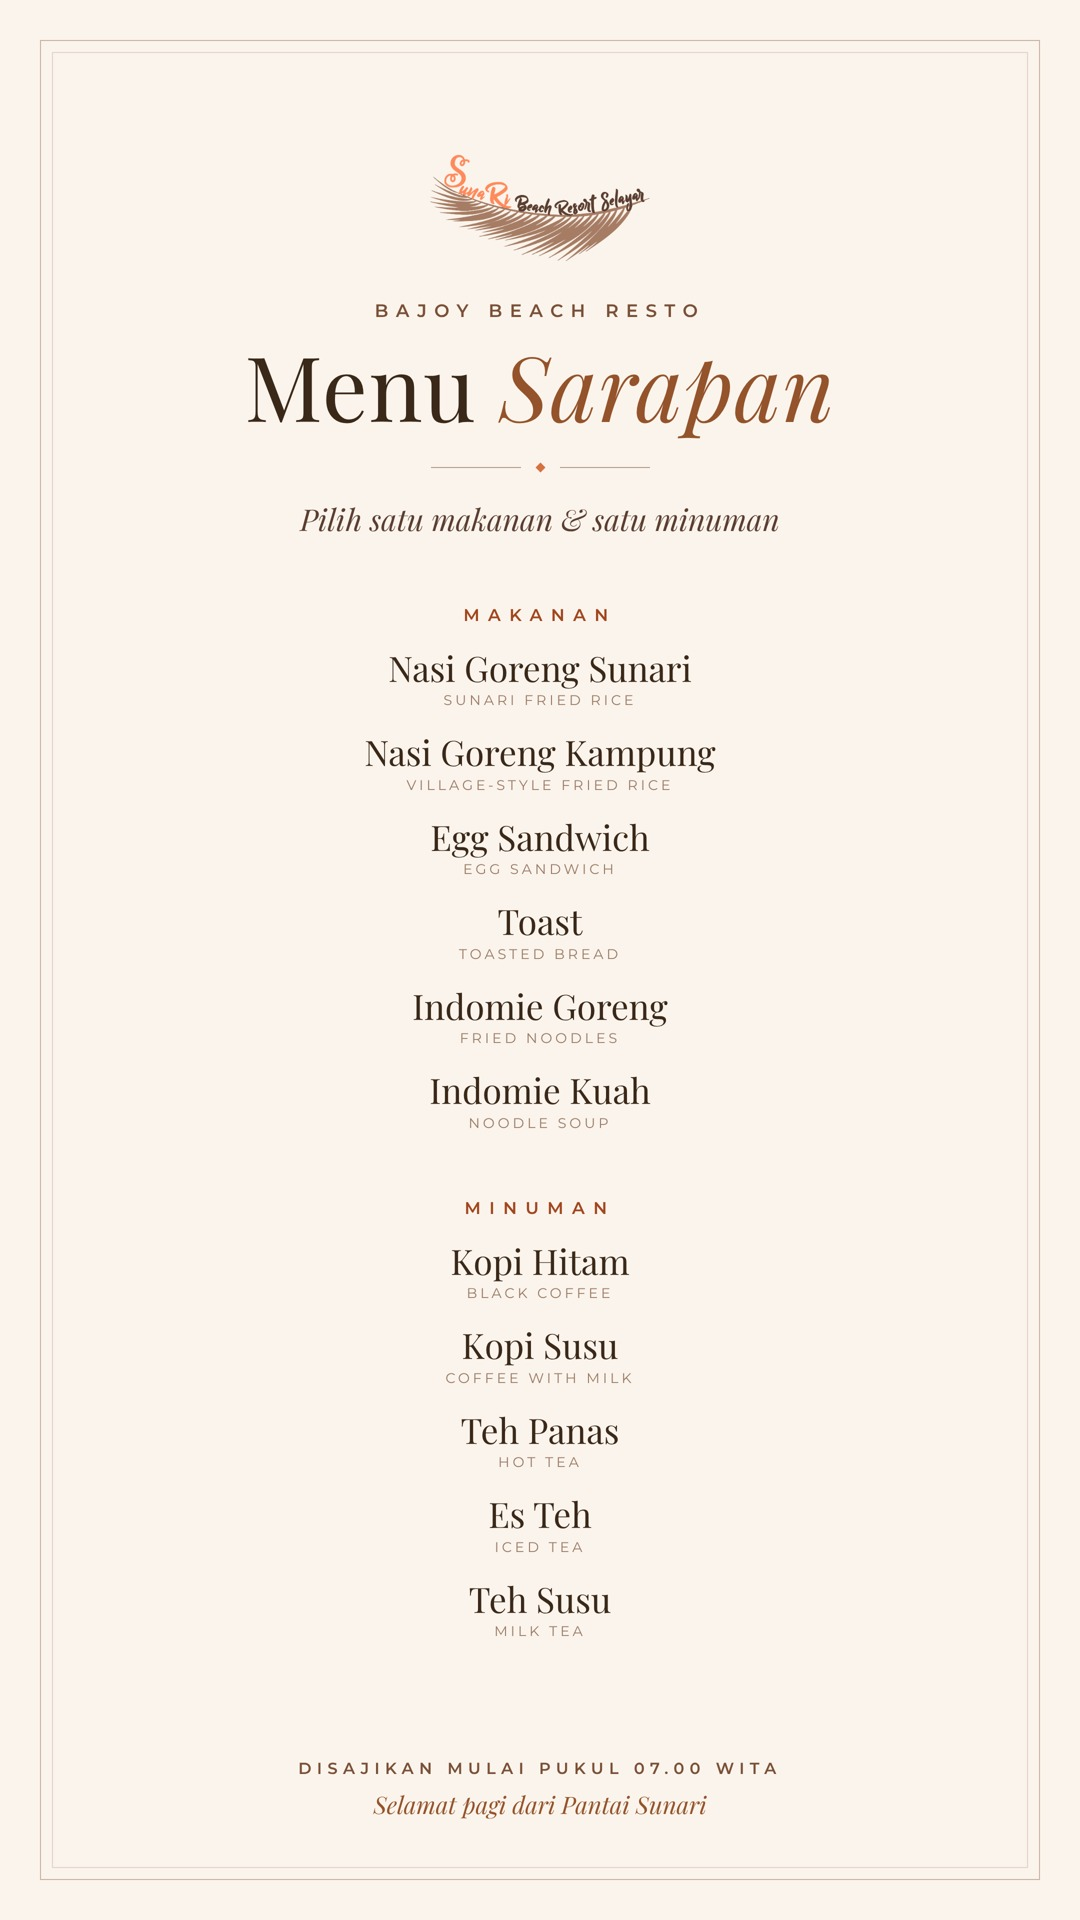
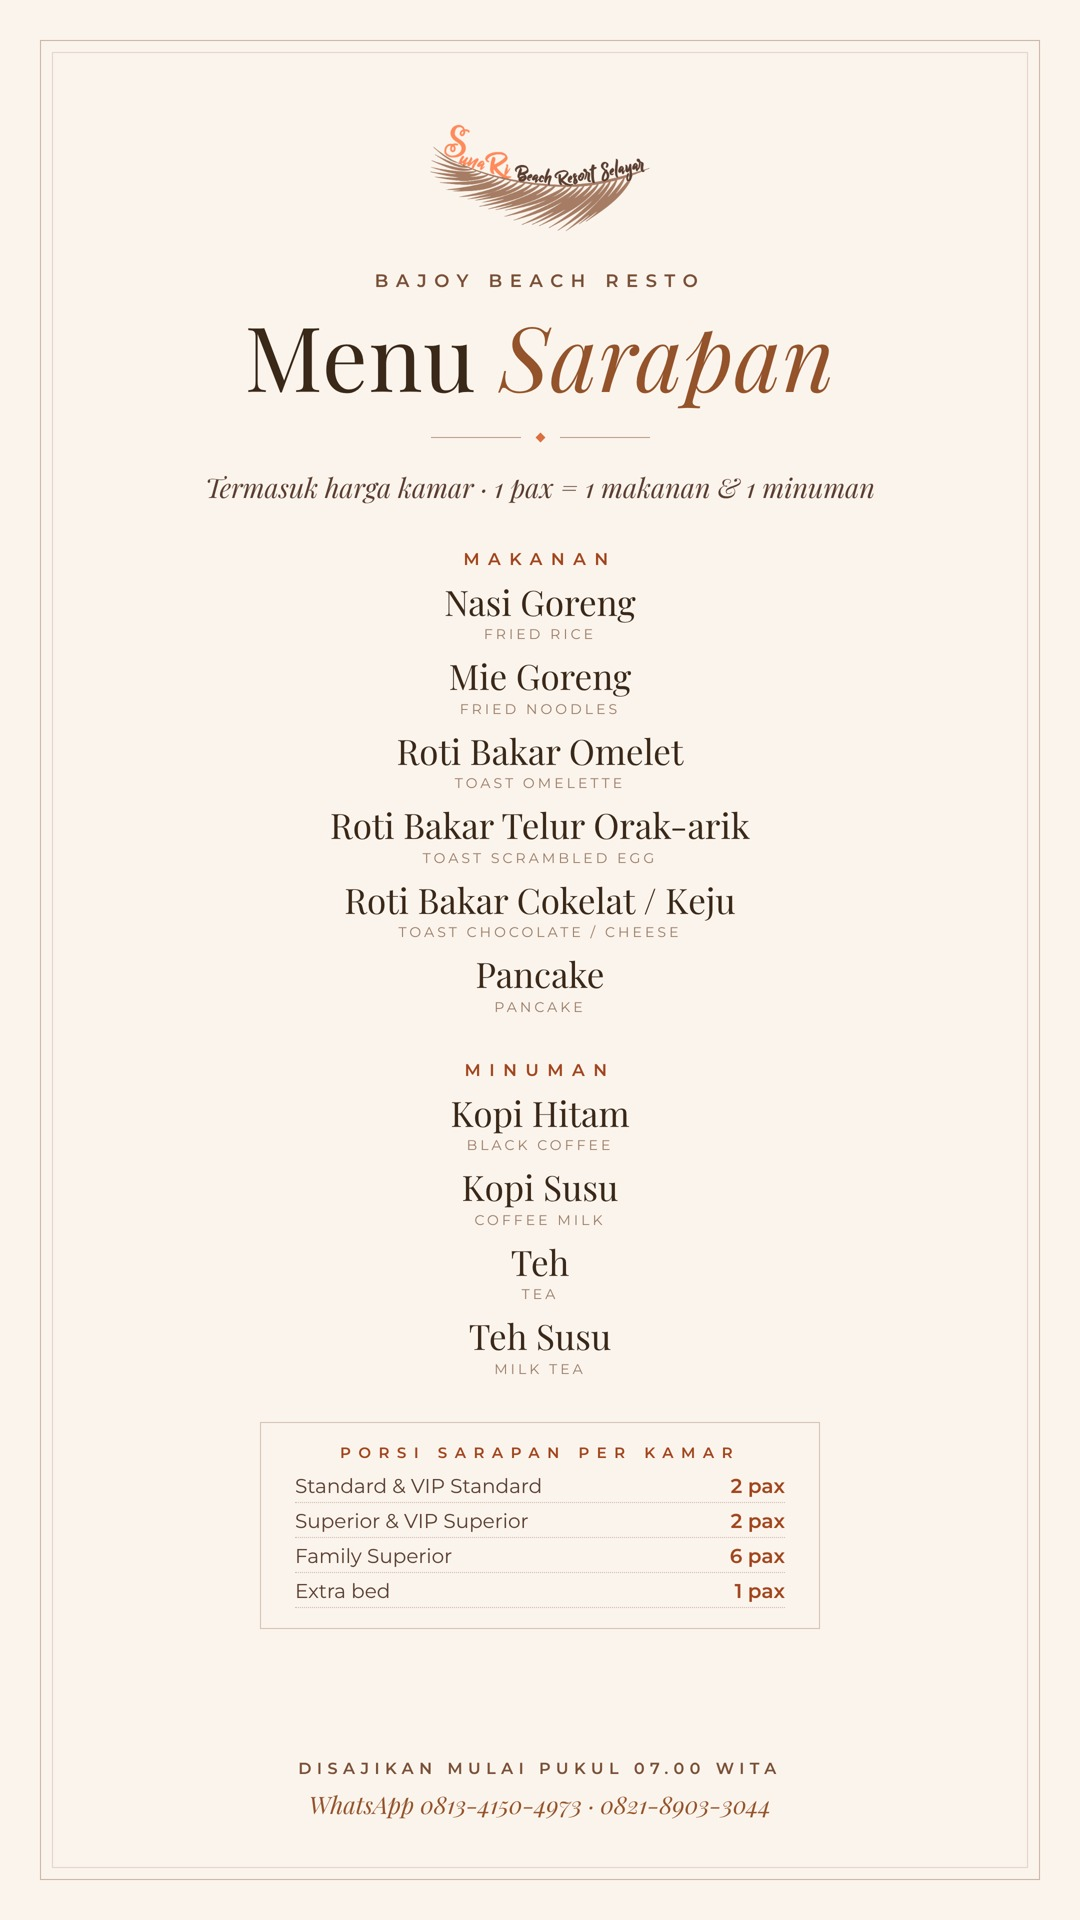
Menu sarapan sesuai menu resmi pemilik (6 makanan, 4 minuman, porsi per kamar); dicatat di MENU_BAJOY.md
Claude-Session: https://claude.ai/code/session_01KeLc5eBGUnchV5ne3wvwHX

diff --git a/resto/menu-sarapan/menu_sarapan.html b/resto/menu-sarapan/menu_sarapan.html
@@ -2,27 +2,31 @@
 *{margin:0;padding:0;box-sizing:border-box}body{background:#bbb;font-family:Montserrat,sans-serif;-webkit-font-smoothing:antialiased}
 .pg{position:relative;width:1080px;height:1920px;margin:20px auto;background:#FBF4EC;color:#3A2819;overflow:hidden}
 .f1{position:absolute;inset:40px;border:1.5px solid rgba(138,95,72,.45)}.f2{position:absolute;inset:52px;border:1px solid rgba(138,95,72,.22)}
-.in{position:absolute;left:120px;right:120px;top:150px;text-align:center}
+.in{position:absolute;left:120px;right:120px;top:120px;text-align:center}
 .lg{width:230px}
 .kick{font-weight:600;font-size:18px;letter-spacing:.42em;text-transform:uppercase;color:#7A5038;margin-top:30px}
 h1{font-family:'Playfair Display',serif;font-weight:400;font-size:90px;line-height:1;margin-top:18px;letter-spacing:.01em}
 h1 i{color:#94532B}
 .rule{display:flex;align-items:center;justify-content:center;gap:16px;margin:34px 0 0}
 .rule span{width:90px;height:1px;background:rgba(138,95,72,.6)}.rule b{width:7px;height:7px;transform:rotate(45deg);background:#D9703F}
-.how{font-family:'Playfair Display',serif;font-style:italic;font-size:30px;color:#5A3E31;margin-top:28px}
-.sec{margin-top:66px}
+.how{font-family:'Playfair Display',serif;font-style:italic;font-size:27px;color:#5A3E31;margin-top:28px}
+.sec{margin-top:44px}
 .grid{display:grid;grid-template-columns:1fr 1fr;column-gap:30px}
 .st{font-weight:600;font-size:17px;letter-spacing:.5em;text-transform:uppercase;color:#A2461F}
-.it{margin-top:24px}
+.it{margin-top:14px}
 .it .n{font-family:'Playfair Display',serif;font-size:35px;line-height:1.1}
 .it .e{font-size:14px;letter-spacing:.22em;text-transform:uppercase;color:#9A7B66;margin-top:4px}
+.porsi{margin:44px auto 0;width:560px;padding:20px 34px;border:1px solid rgba(138,95,72,.35)}
+.pg2{display:grid;grid-template-columns:1fr;gap:6px;margin-top:12px;font-size:20px;color:#5A3E31}
+.pg2 div{display:flex;justify-content:space-between;border-bottom:1px dotted rgba(138,95,72,.4);padding-bottom:4px}.pg2 b{color:#A2461F;font-weight:600}
 .ft{position:absolute;left:130px;right:130px;bottom:100px;text-align:center}
 .ft .t{font-weight:600;font-size:16px;letter-spacing:.34em;text-transform:uppercase;color:#7A5038}
 .ft .s{font-family:'Playfair Display',serif;font-style:italic;font-size:24px;color:#94532B;margin-top:10px}
 </style></head><body><div class="pg" id="menu-sarapan"><div class="f1"></div><div class="f2"></div>
 <div class="in"><img class="lg" src="../../assets/logo-sunari-color.png"><div class="kick">Bajoy Beach Resto</div>
 <h1>Menu <i>Sarapan</i></h1><div class="rule"><span></span><b></b><span></span></div>
-<div class="how">Pilih satu makanan &amp; satu minuman</div>
-<div class="sec"><div class="st">Makanan</div><div class="it"><div class="n">Nasi Goreng Sunari</div><div class="e">Sunari fried rice</div></div><div class="it"><div class="n">Nasi Goreng Kampung</div><div class="e">Village-style fried rice</div></div><div class="it"><div class="n">Egg Sandwich</div><div class="e">Egg sandwich</div></div><div class="it"><div class="n">Toast</div><div class="e">Toasted bread</div></div><div class="it"><div class="n">Indomie Goreng</div><div class="e">Fried noodles</div></div><div class="it"><div class="n">Indomie Kuah</div><div class="e">Noodle soup</div></div></div>
-<div class="sec"><div class="st">Minuman</div><div class="it"><div class="n">Kopi Hitam</div><div class="e">Black coffee</div></div><div class="it"><div class="n">Kopi Susu</div><div class="e">Coffee with milk</div></div><div class="it"><div class="n">Teh Panas</div><div class="e">Hot tea</div></div><div class="it"><div class="n">Es Teh</div><div class="e">Iced tea</div></div><div class="it"><div class="n">Teh Susu</div><div class="e">Milk tea</div></div></div></div>
-<div class="ft"><div class="t">Disajikan mulai pukul 07.00 WITA</div><div class="s">Selamat pagi dari Pantai Sunari</div></div></div></body></html>
+<div class="how">Termasuk harga kamar · 1 pax = 1 makanan &amp; 1 minuman</div>
+<div class="sec"><div class="st">Makanan</div><div class="it"><div class="n">Nasi Goreng</div><div class="e">Fried rice</div></div><div class="it"><div class="n">Mie Goreng</div><div class="e">Fried noodles</div></div><div class="it"><div class="n">Roti Bakar Omelet</div><div class="e">Toast omelette</div></div><div class="it"><div class="n">Roti Bakar Telur Orak-arik</div><div class="e">Toast scrambled egg</div></div><div class="it"><div class="n">Roti Bakar Cokelat / Keju</div><div class="e">Toast chocolate / cheese</div></div><div class="it"><div class="n">Pancake</div><div class="e">Pancake</div></div></div>
+<div class="sec"><div class="st">Minuman</div><div class="it"><div class="n">Kopi Hitam</div><div class="e">Black coffee</div></div><div class="it"><div class="n">Kopi Susu</div><div class="e">Coffee milk</div></div><div class="it"><div class="n">Teh</div><div class="e">Tea</div></div><div class="it"><div class="n">Teh Susu</div><div class="e">Milk tea</div></div></div>
+<div class="porsi"><div class="st" style="font-size:15px">Porsi sarapan per kamar</div><div class="pg2"><div><span>Standard &amp; VIP Standard</span><b>2 pax</b></div><div><span>Superior &amp; VIP Superior</span><b>2 pax</b></div><div><span>Family Superior</span><b>6 pax</b></div><div><span>Extra bed</span><b>1 pax</b></div></div></div></div>
+<div class="ft"><div class="t">Disajikan mulai pukul 07.00 WITA</div><div class="s">WhatsApp 0813-4150-4973 · 0821-8903-3044</div></div></div></body></html>

diff --git a/resto/menu-sarapan/build.py b/resto/menu-sarapan/build.py
@@ -1,34 +1,35 @@
 """Menu sarapan SunaRi (gambar WhatsApp/story 1080x1920), elegan & minimalis, tanpa foto.
-Sistem: tamu memilih 1 makanan + 1 minuman. Item diambil dari menu Bajoy Beach Resto (resto/MENU_BAJOY.md);
-ubah daftar MAKANAN / MINUMAN di bawah bila menu sarapan berbeda.
+Sistem: termasuk harga kamar, 1 pax = 1 makanan + 1 minuman. Isi menu sesuai menu sarapan resmi (Breakfast Menu dari pemilik, 27 Nov 2026).
 Run: python3 resto/menu-sarapan/build.py && node resto/menu-sarapan/render.js"""
 import pathlib
 H = pathlib.Path(__file__).parent
 LOGO = "../../assets/logo-sunari-color.png"
 FONTS = '<link href="https://fonts.googleapis.com/css2?family=Playfair+Display:ital,wght@0,400;0,500;1,400&family=Montserrat:wght@400;500;600&display=swap" rel="stylesheet">'
-MAKANAN = [("Nasi Goreng Sunari", "Sunari fried rice"), ("Nasi Goreng Kampung", "Village-style fried rice"),
-           ("Egg Sandwich", "Egg sandwich"), ("Toast", "Toasted bread"),
-           ("Indomie Goreng", "Fried noodles"), ("Indomie Kuah", "Noodle soup")]
-MINUMAN = [("Kopi Hitam", "Black coffee"), ("Kopi Susu", "Coffee with milk"), ("Teh Panas", "Hot tea"),
-           ("Es Teh", "Iced tea"), ("Teh Susu", "Milk tea")]
+MAKANAN = [("Nasi Goreng", "Fried rice"), ("Mie Goreng", "Fried noodles"), ("Roti Bakar Omelet", "Toast omelette"),
+           ("Roti Bakar Telur Orak-arik", "Toast scrambled egg"), ("Roti Bakar Cokelat / Keju", "Toast chocolate / cheese"), ("Pancake", "Pancake")]
+MINUMAN = [("Kopi Hitam", "Black coffee"), ("Kopi Susu", "Coffee milk"), ("Teh", "Tea"), ("Teh Susu", "Milk tea")]
+PORSI = [("Standard &amp; VIP Standard", "2 pax"), ("Superior &amp; VIP Superior", "2 pax"), ("Family Superior", "6 pax"), ("Extra bed", "1 pax")]
 CSS = """
 *{margin:0;padding:0;box-sizing:border-box}body{background:#bbb;font-family:Montserrat,sans-serif;-webkit-font-smoothing:antialiased}
 .pg{position:relative;width:1080px;height:1920px;margin:20px auto;background:#FBF4EC;color:#3A2819;overflow:hidden}
 .f1{position:absolute;inset:40px;border:1.5px solid rgba(138,95,72,.45)}.f2{position:absolute;inset:52px;border:1px solid rgba(138,95,72,.22)}
-.in{position:absolute;left:120px;right:120px;top:150px;text-align:center}
+.in{position:absolute;left:120px;right:120px;top:120px;text-align:center}
 .lg{width:230px}
 .kick{font-weight:600;font-size:18px;letter-spacing:.42em;text-transform:uppercase;color:#7A5038;margin-top:30px}
 h1{font-family:'Playfair Display',serif;font-weight:400;font-size:90px;line-height:1;margin-top:18px;letter-spacing:.01em}
 h1 i{color:#94532B}
 .rule{display:flex;align-items:center;justify-content:center;gap:16px;margin:34px 0 0}
 .rule span{width:90px;height:1px;background:rgba(138,95,72,.6)}.rule b{width:7px;height:7px;transform:rotate(45deg);background:#D9703F}
-.how{font-family:'Playfair Display',serif;font-style:italic;font-size:30px;color:#5A3E31;margin-top:28px}
-.sec{margin-top:66px}
+.how{font-family:'Playfair Display',serif;font-style:italic;font-size:27px;color:#5A3E31;margin-top:28px}
+.sec{margin-top:44px}
 .grid{display:grid;grid-template-columns:1fr 1fr;column-gap:30px}
 .st{font-weight:600;font-size:17px;letter-spacing:.5em;text-transform:uppercase;color:#A2461F}
-.it{margin-top:24px}
+.it{margin-top:14px}
 .it .n{font-family:'Playfair Display',serif;font-size:35px;line-height:1.1}
 .it .e{font-size:14px;letter-spacing:.22em;text-transform:uppercase;color:#9A7B66;margin-top:4px}
+.porsi{margin:44px auto 0;width:560px;padding:20px 34px;border:1px solid rgba(138,95,72,.35)}
+.pg2{display:grid;grid-template-columns:1fr;gap:6px;margin-top:12px;font-size:20px;color:#5A3E31}
+.pg2 div{display:flex;justify-content:space-between;border-bottom:1px dotted rgba(138,95,72,.4);padding-bottom:4px}.pg2 b{color:#A2461F;font-weight:600}
 .ft{position:absolute;left:130px;right:130px;bottom:100px;text-align:center}
 .ft .t{font-weight:600;font-size:16px;letter-spacing:.34em;text-transform:uppercase;color:#7A5038}
 .ft .s{font-family:'Playfair Display',serif;font-style:italic;font-size:24px;color:#94532B;margin-top:10px}
@@ -37,9 +38,10 @@ items = lambda L: "".join(f'<div class="it"><div class="n">{n}</div><div class="
 HTML = f'''<div class="pg" id="menu-sarapan"><div class="f1"></div><div class="f2"></div>
 <div class="in"><img class="lg" src="{LOGO}"><div class="kick">Bajoy Beach Resto</div>
 <h1>Menu <i>Sarapan</i></h1><div class="rule"><span></span><b></b><span></span></div>
-<div class="how">Pilih satu makanan &amp; satu minuman</div>
+<div class="how">Termasuk harga kamar · 1 pax = 1 makanan &amp; 1 minuman</div>
 <div class="sec"><div class="st">Makanan</div>{items(MAKANAN)}</div>
-<div class="sec"><div class="st">Minuman</div>{items(MINUMAN)}</div></div>
-<div class="ft"><div class="t">Disajikan mulai pukul 07.00 WITA</div><div class="s">Selamat pagi dari Pantai Sunari</div></div></div>'''
+<div class="sec"><div class="st">Minuman</div>{items(MINUMAN)}</div>
+<div class="porsi"><div class="st" style="font-size:15px">Porsi sarapan per kamar</div><div class="pg2">{"".join(f'<div><span>{a}</span><b>{b}</b></div>' for a, b in PORSI)}</div></div></div>
+<div class="ft"><div class="t">Disajikan mulai pukul 07.00 WITA</div><div class="s">WhatsApp 0813-4150-4973 · 0821-8903-3044</div></div></div>'''
 (H / "menu_sarapan.html").write_text(f'<!doctype html><html lang="id"><head><meta charset="utf-8">{FONTS}<style>{CSS}</style></head><body>{HTML}</body></html>')
 print("ok")

diff --git a/resto/MENU_BAJOY.md b/resto/MENU_BAJOY.md
@@ -80,3 +80,17 @@ Ubah menu/harga di `build_menu.py` (bagian `MENU`), lalu jalankan `python3 resto
 - Arti singkatan **D.** (Beef/Egg Sandwich D.), **M.S** dan **L.M**. Bisa ditulis lengkap agar tamu asing paham.
 - **Ikan bakar** belum ada di daftar menu, padahal disebut di caption & deskripsi. Apakah ikan bakar menu Senja Dinner saja / harga sesuai berat?
 - Ejaan yang saya rapikan: *Manggo* → **Mango**, *SeaFood* → **Seafood**.
+## Menu Sarapan (termasuk harga kamar)
+Sumber: Breakfast Menu resmi dari pemilik (27 Nov 2026), salinan di `menu-sarapan/_referensi_breakfast_menu_pemilik.jpg`.
+1 pax = 1 makanan + 1 minuman. Standard & VIP Standard 2 pax · Superior & VIP Superior 2 pax · Family Superior 6 pax · Extra bed 1 pax.
+
+| Makanan | Minuman |
+|---|---|
+| Fried Rice (Nasi Goreng) | Black Coffee (Kopi Hitam) |
+| Fried Noodles (Mie Goreng) | Coffee Milk (Kopi Susu) |
+| Toast Omelette | Tea (Teh) |
+| Toast Scrambled Egg | Milk Tea (Teh Susu) |
+| Toast Coklat/Cheese | |
+| Pancake | |
+
+Desain menu sarapan: `menu-sarapan/` (`python3 resto/menu-sarapan/build.py && node resto/menu-sarapan/render.js`).
